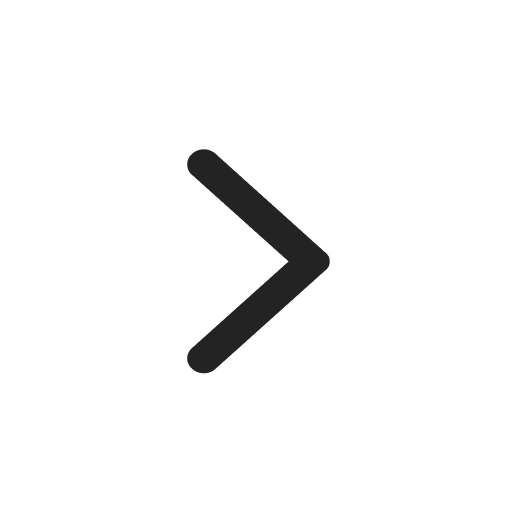
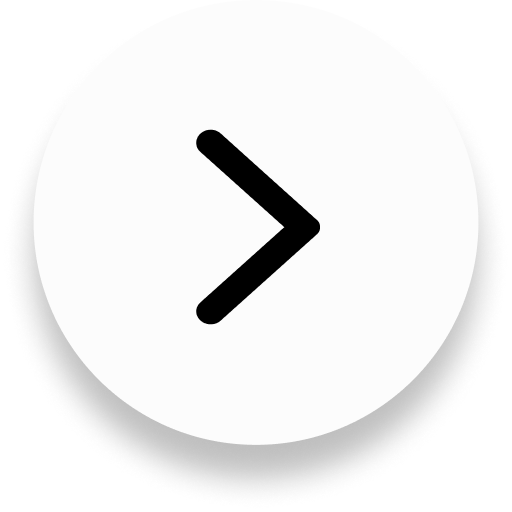
add onboarding imgs, edit buttons, edit scorebar animation

Changed region(s): [[0.0312, 0.4688, 0.9688, 0.9688], [0.3438, 0.25, 0.6562, 0.75]]

diff --git a/src/components/AutoPlayMoves.js b/src/components/AutoPlayMoves.js
@@ -7,7 +7,7 @@ export const AutoPlayMoves = ({ state }) => {
 			onPress={() => console.log(state.moves)}
 		>
 			<Image
-				style={{ width: 53, height: 53 }}
+				style={{ width: 47, height: 47 }}
 				source={require('../assets/images/auto-play-button.png')}
 			/>
 		</TouchableOpacity>

diff --git a/src/components/ScoreBar.js b/src/components/ScoreBar.js
@@ -14,7 +14,7 @@ export const ScoreBar = ({ score }) => {
 		Animated.timing(counter, {
 			toValue: percentage,
 			delay: 500,
-			duration: 750,
+			duration: 500,
 			useNativeDriver: false,
 		}).start();
 	};

diff --git a/src/screens/Play/Styles.js b/src/screens/Play/Styles.js
@@ -39,7 +39,7 @@ export const Styles = StyleSheet.create({
 	},
 	btntext: {
 		fontSize: 13,
-		color: '#0A0A0A',
+		color: '#000000',
 		fontFamily: 'Poppins-Medium',
 	},
 	board: {
